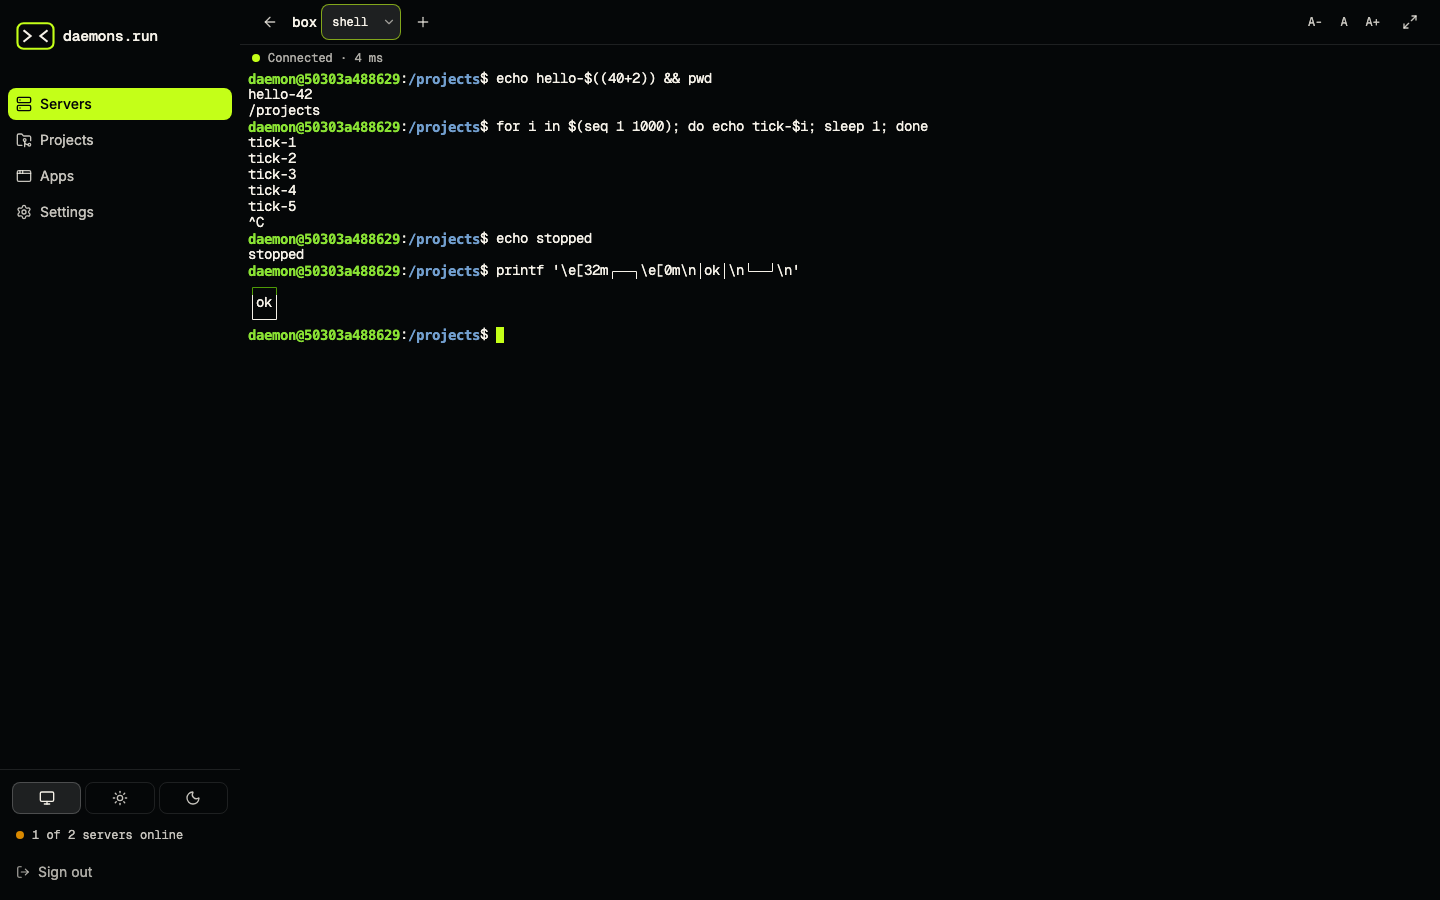
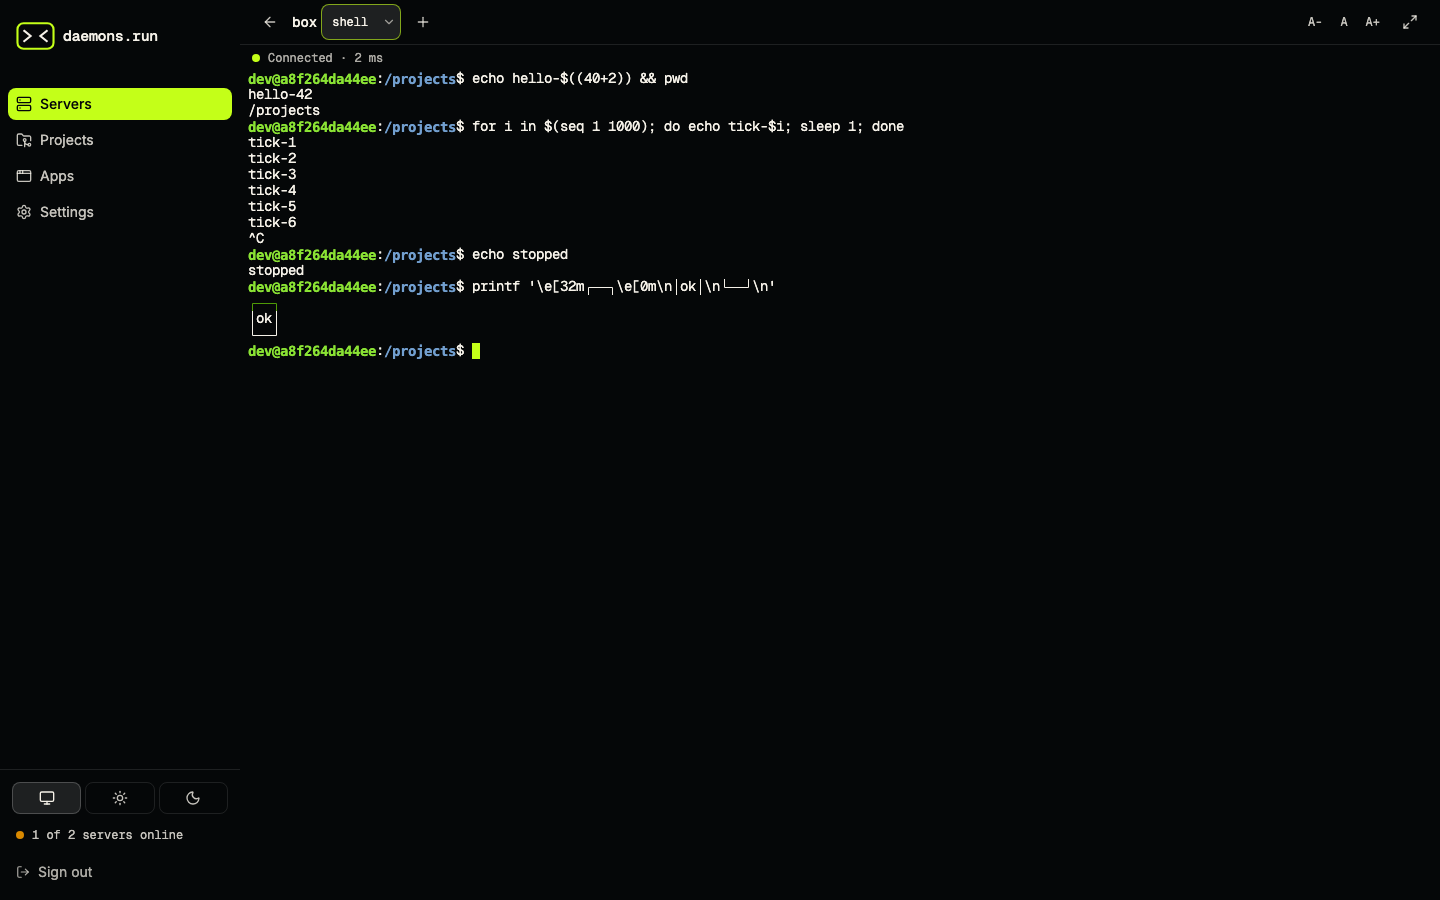
VM user is dev, not daemon; apps proxy verified locally
Ubuntu already ships a system account "daemon" (uid 1, used by atd); the real
Hetzner install failed repurposing it. Owner decision: the working user is dev.

Claude-Session: https://claude.ai/code/session_01Pq9KzAADqaMjRU8G7iuEHa

Changed region(s): [[0.1562, 0.2489, 0.5, 0.4044], [0.1875, 0.1244, 0.6562, 0.1556], [0.1875, 0.0622, 0.5, 0.0933]]

diff --git a/control-plane/e2e/real-hetzner.spec.ts b/control-plane/e2e/real-hetzner.spec.ts
@@ -1,0 +1,82 @@
+import { expect, test, type Page } from '@playwright/test';
+import { shoot, virtualPasskey } from './helpers';
+
+// Buys a real server. Only with REAL_HETZNER=1, against daemons-dev, cheapest tier only.
+test.skip(process.env.REAL_HETZNER !== '1', 'set REAL_HETZNER=1 to buy a real test server');
+test.setTimeout(30 * 60_000);
+
+const NAME = process.env.SERVER_NAME ?? 'dev-arm-1';
+const TYPE = process.env.SERVER_TYPE ?? 'cax11';
+const ALLOWED = ['cx23', 'cax11'];
+
+async function screenText(page: Page) {
+  return page.evaluate(() => (window as unknown as { __daemonsTerminal?: () => string }).__daemonsTerminal?.() ?? '');
+}
+
+test('real Hetzner server: create → online → terminal', async ({ page, context, baseURL }) => {
+  expect(ALLOWED).toContain(TYPE);
+  await virtualPasskey(page, baseURL!);
+  const origin = new URL(baseURL!).origin;
+  await page.goto('/login');
+  await page.getByTestId('sign-in').click();
+  await expect(page).toHaveURL(/\/servers/);
+
+  const providers = await (await page.request.get('/api/providers')).json();
+  if (!providers.providers.some((p: { id: string; needsCredentials: boolean }) => p.id === 'hetzner' && !p.needsCredentials)) {
+    const r = await page.request.put('/api/providers/hetzner', { data: { token: process.env.HETZNER_API_KEY }, headers: { Origin: origin } });
+    expect(r.status()).toBe(200);
+  }
+
+  let server = (await (await page.request.get('/api/servers')).json()).servers.find((s: { name: string }) => s.name === NAME);
+  if (!server) {
+    await page.goto('/servers/new');
+    await page.getByTestId('server-name').fill(NAME);
+    const options = await (await page.request.get('/api/providers/hetzner/options')).json();
+    const size = options.sizes.find((s: { name: string }) => s.name === TYPE);
+    const location = ['nbg1', 'fsn1', 'hel1'].find((l) => size.availableIn.includes(l));
+    expect(location, `${TYPE} available somewhere in the EU`).toBeTruthy();
+    await page.getByTestId('server-location').selectOption(location!);
+    await page.getByTestId(`server-lane-change-${size.group}`).click();
+    await page.getByTestId(`server-type-option-${TYPE}`).click();
+    await expect(page.getByTestId(`server-type-group-${size.group}`)).toContainText(TYPE);
+    await page.getByTestId(`server-type-group-${size.group}`).click();
+    await page.getByTestId('create-server').click();
+    const dialog = page.getByRole('dialog');
+    await expect(dialog).toContainText(TYPE);
+    const price = Number(/€([\d.]+)\/month/.exec(await dialog.innerText())![1]);
+    expect(price).toBeLessThan(7);
+    await page.getByTestId('purchase-confirm').click();
+    await expect(page).toHaveURL(/\/servers\/srv_/);
+    server = (await (await page.request.get('/api/servers')).json()).servers.find((s: { name: string }) => s.name === NAME);
+  }
+  const started = Date.now();
+  let shotStep = '';
+  for (;;) {
+    const s = (await (await page.request.get(`/api/servers/${server.id}`)).json()).server;
+    const step = s.install.step ?? s.status;
+    if (step !== shotStep && ['creating', 'docker', 'coding-agents'].includes(step)) {
+      shotStep = step;
+      await shoot(context, `/servers/${server.id}`, '04-provisioning', `real-progress-${step}`);
+    }
+    if (s.status === 'online') break;
+    if (s.status === 'failed' || s.install.status === 'failed') throw new Error(`install failed at ${s.install.step}:\n${s.install.log}`);
+    if (Date.now() - started > 20 * 60_000) throw new Error(`not online after 20 min, step ${step}`);
+    await page.waitForTimeout(10_000);
+  }
+  console.log(`online after ${Math.round((Date.now() - started) / 1000)} s`);
+  await shoot(context, `/servers/${server.id}`, '04-provisioning', 'real-online');
+
+  await page.goto(`/servers/${server.id}/terminal?s=check&command=bash`);
+  await expect(page.getByTestId('terminal-status')).toHaveAttribute('data-state', 'connected', { timeout: 30_000 });
+  await page.locator('[data-testid="terminal"] .xterm-helper-textarea').focus();
+  await page.keyboard.type('docker version --format "docker {{.Server.Version}}"; claude --version; id -un; ss -tlnp | grep -v 127.0.0 | grep -c LISTEN; echo done-check\n');
+  await expect.poll(() => screenText(page), { timeout: 60_000 }).toContain('done-check');
+  const text = await screenText(page);
+  console.log(text.split('\n').filter((l) => l.trim()).slice(-8).join('\n'));
+  expect(text).toMatch(/docker \d+\./);
+  expect(text).toMatch(/^dev$/m);
+  await shoot(context, `/servers/${server.id}/terminal?s=check`, '06-terminal', 'real-server', async (p) => {
+    await expect(p.getByTestId('terminal-status')).toHaveAttribute('data-state', 'connected', { timeout: 30_000 });
+    await p.waitForTimeout(1000);
+  });
+});

diff --git a/control-plane/e2e/08-apps.spec.ts b/control-plane/e2e/08-apps.spec.ts
@@ -1,0 +1,72 @@
+import { expect, test } from '@playwright/test';
+import { AGENT_CONTAINER, connectLocalAgent, sh } from './local-agent';
+import { shoot, virtualPasskey } from './helpers';
+
+test.skip(!AGENT_CONTAINER || !process.env.APPS_URL, 'needs AGENT_CONTAINER and APPS_URL (local apps gateway)');
+const APPS = process.env.APPS_URL!;
+
+test('apps: expose from the CLI, private by default, public toggle, not listening, unexpose', async ({ page, context, baseURL, browser }) => {
+  await virtualPasskey(page, baseURL!);
+  const origin = new URL(baseURL!).origin;
+  await page.goto('/login');
+  await page.getByTestId('sign-in').click();
+  await expect(page).toHaveURL(/\/servers/);
+  await connectLocalAgent(page, origin);
+  for (const a of (await (await page.request.get('/api/apps')).json()).apps) {
+    await page.request.delete(`/api/apps/${a.name}`, { headers: { Origin: origin } });
+  }
+
+  // A tiny app under its base path, started as the daemon user.
+  sh(`mkdir -p /projects/shop/shop && echo '<h1>hello from shop</h1>' > /projects/shop/shop/index.html && cd /projects/shop && { [ -f /tmp/shop.pid ] && kill $(cat /tmp/shop.pid) 2>/dev/null; true; } && { nohup python3 -m http.server 3000 --bind 127.0.0.1 > /tmp/shop.log 2>&1 & echo $! > /tmp/shop.pid; } && sleep 1`, 'dev');
+  const out = sh('cd /projects/shop && daemons-agent cli expose 3000 --name shop', 'dev');
+  expect(out).toContain(`${APPS}/shop/`);
+
+  // The Apps page lists it; private by default.
+  await page.goto('/apps');
+  await expect(page.getByTestId('app-shop')).toContainText('Private');
+  await shoot(context, '/apps', '08-apps', 'apps');
+
+  // Owner: redirect through the control plane, then the app.
+  await page.goto(`${APPS}/shop/`);
+  await expect(page.locator('h1')).toHaveText('hello from shop');
+  expect(page.url()).not.toContain('__daemons_ticket');
+
+  // Signed-out visitor: sent to sign-in.
+  const anon = await browser.newContext();
+  const anonPage = await anon.newPage();
+  await anonPage.goto(`${APPS}/shop/`);
+  await expect(anonPage).toHaveURL(/\/login/);
+
+  // Public: no sign-in.
+  await page.goto('/apps');
+  await page.getByTestId('public-shop').click();
+  await expect(page.getByTestId('app-shop')).toContainText('Public link');
+  const t0 = Date.now();
+  await anonPage.goto(`${APPS}/shop/`);
+  await expect(anonPage.locator('h1')).toHaveText('hello from shop');
+  console.log(`public after ${Date.now() - t0} ms`);
+
+  // Not listening: a friendly page, not a 502 from nowhere.
+  sh('cd /projects/shop && daemons-agent cli expose 3999 --name ghost --public', 'dev');
+  await anonPage.goto(`${APPS}/ghost/`);
+  await expect(anonPage.locator('h1')).toContainText('ghost is not running');
+  await anonPage.screenshot({ path: '../docs/qa/08-apps/not-listening-desktop-dark.png' });
+
+  // Unexpose: gone within 2 s.
+  sh('daemons-agent cli unexpose ghost', 'dev');
+  const t1 = Date.now();
+  await anonPage.goto(`${APPS}/ghost/`);
+  await expect(anonPage.locator('h1')).toContainText('ghost is not exposed');
+  expect(Date.now() - t1).toBeLessThan(2000);
+
+  // Port offers on the Apps page for listening ports without an app.
+  sh(`{ [ -f /tmp/vite.pid ] && kill $(cat /tmp/vite.pid) 2>/dev/null; true; } && { nohup python3 -m http.server 5173 --bind 127.0.0.1 > /tmp/vite.log 2>&1 & echo $! > /tmp/vite.pid; } && sleep 1`, 'dev');
+  await page.goto('/apps');
+  await expect(page.getByTestId('expose-5173')).toBeVisible();
+  await shoot(context, '/apps', '08-apps', 'apps-offers', async (p) => {
+    await p.getByTestId('expose-5173').waitFor();
+  });
+  await page.getByTestId('expose-5173').click();
+  await expect(page.getByTestId('expose-5173')).toHaveCount(0);
+  await anon.close();
+});

diff --git a/control-plane/e2e/06-terminal.spec.ts b/control-plane/e2e/06-terminal.spec.ts
@@ -20,7 +20,7 @@ test('terminal: start, type, survive a reload, tabs, phone key row', async ({ pa
   await page.getByTestId('sign-in').click();
   await expect(page).toHaveURL(/\/servers/);
   const id = await connectLocalAgent(page, origin);
-  sh("tmux -L daemons kill-server 2>/dev/null || true", 'daemon');
+  sh("tmux -L daemons kill-server 2>/dev/null || true", 'dev');
 
   if (process.env.DEBUG_WS) page.on('console', (m) => console.log('console', m.text()));
   if (process.env.DEBUG_WS) page.on('websocket', (ws) => {
@@ -45,7 +45,7 @@ test('terminal: start, type, survive a reload, tabs, phone key row', async ({ pa
   const lastTick = async () => Math.max(0, ...[...(await screenText(page)).matchAll(/tick-(\d+)/g)].map((m) => Number(m[1])));
   const before = await lastTick();
   await expect.poll(lastTick).toBeGreaterThan(before + 1);
-  expect(sh('tmux -L daemons ls', 'daemon')).toContain('shell');
+  expect(sh('tmux -L daemons ls', 'dev')).toContain('shell');
   await page.locator('[data-testid="terminal"] .xterm-helper-textarea').focus();
   await page.keyboard.press('Control+C');
   await typeInTerminal(page, 'echo stopped\n');

diff --git a/control-plane/e2e/helpers.ts b/control-plane/e2e/helpers.ts
@@ -60,9 +60,10 @@ export async function shoot(context: BrowserContext, path: string, epic: string,
         } catch {}
       });
       await page.goto(path);
-      await page.waitForLoadState('networkidle');
+      await page.waitForLoadState('load');
+      await page.locator('[aria-busy="true"]').first().waitFor({ state: 'detached', timeout: 15_000 }).catch(() => undefined);
       if (wait) await wait(page);
-      await page.waitForTimeout(300);
+      await page.waitForTimeout(700);
       await page.screenshot({ path: join(dir, `${name}-${vp}-${scheme}.png`), fullPage: false });
       // No horizontal page scroll at any width.
       const overflow = await page.evaluate(() => document.documentElement.scrollWidth - window.innerWidth);

diff --git a/control-plane/src/worker/servers.ts b/control-plane/src/worker/servers.ts
@@ -449,7 +449,7 @@ done`;
 type ExecResult = { exit_code: number; stdout: string; stderr: string };
 
 async function exec(env: Env, serverId: string, command: string, timeoutMs = 30_000): Promise<ExecResult> {
-  return (await serverStub(env, serverId).request('exec', { command, cwd: '/projects', user: 'daemon', timeout_ms: timeoutMs }, timeoutMs + 5000)) as unknown as ExecResult;
+  return (await serverStub(env, serverId).request('exec', { command, cwd: '/projects', user: 'dev', timeout_ms: timeoutMs }, timeoutMs + 5000)) as unknown as ExecResult;
 }
 
 function agentErrorResponse(c: Context<HonoEnv>, error: unknown) {

diff --git a/control-plane/src/ui/pages/apps.tsx b/control-plane/src/ui/pages/apps.tsx
@@ -52,7 +52,7 @@ export function useGateway(origin: string | undefined) {
 
 function suggestAppName(p: Port) {
   const base = (p.cwd.split('/').filter(Boolean).pop() ?? p.process).toLowerCase().replace(/[^a-z0-9-]+/g, '-').replace(/^-+|-+$/g, '');
-  return (base && base !== 'projects' && base !== 'daemon' ? base : `app-${p.port}`).slice(0, 40);
+  return (base && base !== 'projects' && base !== 'dev' ? base : `app-${p.port}`).slice(0, 40);
 }
 
 /** "Port 5173 (vite, /projects/shop) — Expose?" for one server. */

diff --git a/agent/config.go b/agent/config.go
@@ -23,7 +23,7 @@ const (
 	defaultConfigPath = "/etc/daemons/agent.toml"
 	defaultTokenPath  = "/etc/daemons/enroll-token"
 	protocolVersion   = 1
-	daemonUserName    = "daemon"
+	daemonUserName    = "dev"
 )
 
 type config struct {
@@ -205,7 +205,7 @@ func diskUsage(path string) (total, used uint64) {
 	return total, total - uint64(st.Bfree)*bs
 }
 
-// codingAgents lists the coding agents found on daemon's login PATH.
+// codingAgents lists the coding agents found on dev's login PATH.
 func codingAgents() []string {
 	_, home, _ := daemonUser()
 	found := []string{}
@@ -220,7 +220,7 @@ func codingAgents() []string {
 	return found
 }
 
-// daemonUser returns the credential to run work as user daemon. When the agent is not
+// daemonUser returns the credential to run work as user dev. When the agent is not
 // root (tests, development) it returns nil and the current user's home: work runs as us.
 func daemonUser() (*syscall.Credential, string, error) {
 	if os.Geteuid() != 0 {
@@ -248,7 +248,7 @@ func lookupCredential(name string) (*syscall.Credential, string, error) {
 	return cred, u.HomeDir, nil
 }
 
-// userCommand prepares cmd to run as user (daemon or root) with a clean login-like environment.
+// userCommand prepares cmd to run as user (dev or root) with a clean login-like environment.
 func userCommand(cmd *exec.Cmd, asRoot bool) error {
 	cred, home, err := daemonUser()
 	name := daemonUserName

diff --git a/agent/files.go b/agent/files.go
@@ -1,8 +1,8 @@
 package main
 
-// File operations run as user daemon. When the agent is root it re-executes itself as
-// daemon ("daemons-agent file-op", one request on stdin, one reply on stdout), so the
-// kernel enforces daemon's permissions and new files belong to daemon. When the agent is
+// File operations run as user dev. When the agent is root it re-executes itself as
+// dev ("daemons-agent file-op", one request on stdin, one reply on stdout), so the
+// kernel enforces dev's permissions and new files belong to dev. When the agent is
 // not root (development, tests) the operation runs in-process as the current user.
 
 import (
@@ -263,7 +263,7 @@ func fileRename(from, to string) (M, error) {
 	return nil, fsErr(os.Rename(from, to))
 }
 
-// handleFileArchive streams a .tar.gz of a folder on the channel, as user daemon.
+// handleFileArchive streams a .tar.gz of a folder on the channel, as user dev.
 func handleFileArchive(_ context.Context, c *conn, raw json.RawMessage, ch *channel) (M, func(), error) {
 	var p struct {
 		Path string `json:"path"`

diff --git a/agent/terminal.go b/agent/terminal.go
@@ -30,7 +30,7 @@ set -as terminal-features ",xterm-256color:RGB"
 
 var sessionName = regexp.MustCompile(`^[A-Za-z0-9_-]{1,32}$`)
 
-// terminals runs tmux on its own server socket as user daemon.
+// terminals runs tmux on its own server socket as user dev.
 type terminals struct {
 	socket string
 	conf   string
@@ -183,7 +183,7 @@ func handleTerminalOpen(ctx context.Context, c *conn, raw json.RawMessage, ch *c
 	return M{"created": created}, after, nil
 }
 
-// attach starts a tmux attach client on a fresh PTY owned by user daemon.
+// attach starts a tmux attach client on a fresh PTY owned by user dev.
 func (t *terminals) attach(session string, cols, rows int) (*termClient, error) {
 	cmd, err := t.cmd("attach-session", "-t", "="+session)
 	if err != nil {

diff --git a/agent/exec.go b/agent/exec.go
@@ -38,8 +38,8 @@ func handleExec(ctx context.Context, _ *conn, raw json.RawMessage, _ *channel) (
 	if err := json.Unmarshal(raw, &p); err != nil || p.Command == "" {
 		return nil, nil, perr("bad_request", "command is required")
 	}
-	if p.User != "" && p.User != "daemon" && p.User != "root" {
-		return nil, nil, perr("bad_request", "user must be daemon or root")
+	if p.User != "" && p.User != "dev" && p.User != "root" {
+		return nil, nil, perr("bad_request", "user must be dev or root")
 	}
 	if p.Cwd == "" {
 		p.Cwd = "/projects"

diff --git a/agent/cli.go b/agent/cli.go
@@ -213,7 +213,7 @@ func callAgent(req cliRequest) (M, error) {
 	nc, err := net.DialTimeout("unix", cliSocketPath, 5*time.Second)
 	if err != nil {
 		if errors.Is(err, fs.ErrPermission) {
-			return nil, errors.New("permission denied; run as user daemon or root")
+			return nil, errors.New("permission denied; run as user dev or root")
 		}
 		return nil, fmt.Errorf("daemons-agent is not running (%s): try `sudo systemctl status daemons-agent`", cliSocketPath)
 	}

diff --git a/agent/main.go b/agent/main.go
@@ -60,7 +60,7 @@ func main() {
 	case "cli":
 		os.Exit(runCLI(args))
 	case "file-op":
-		// Internal: one file operation, run as user daemon (see files.go).
+		// Internal: one file operation, run as user dev (see files.go).
 		os.Exit(fileOpMain())
 	default:
 		fmt.Fprint(os.Stderr, usage)
